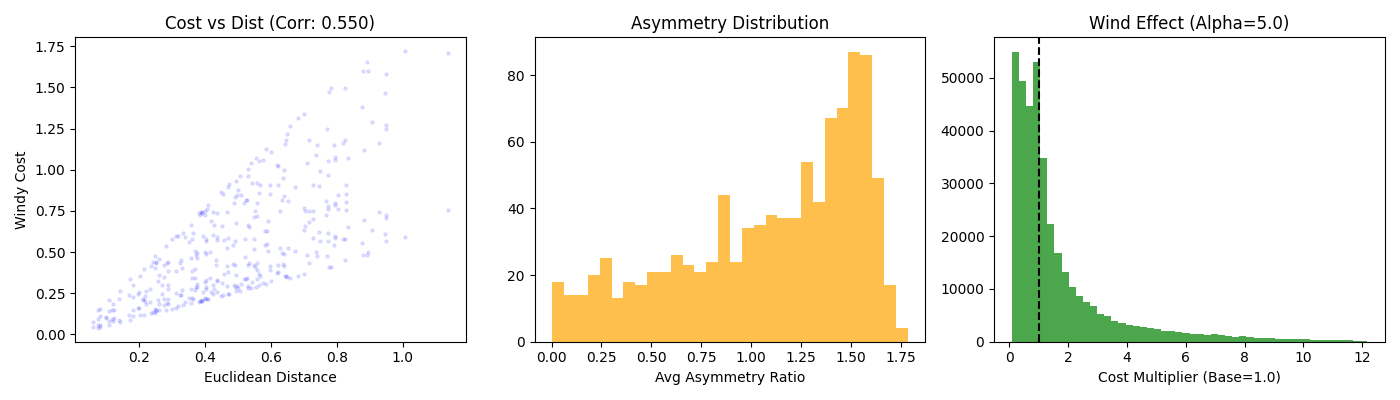
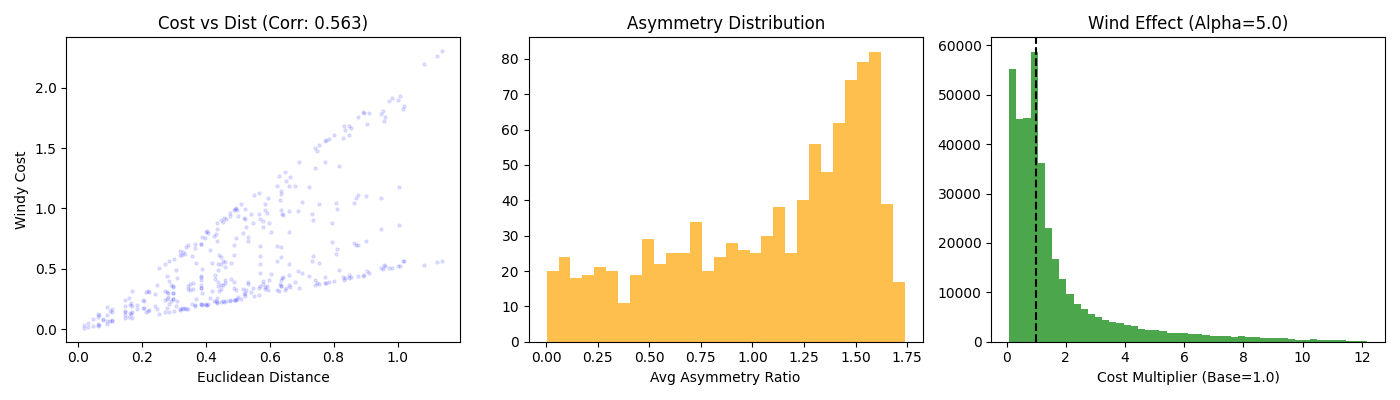
entropy_for_broader_exploration

diff --git a/train.py b/train.py
@@ -140,8 +140,13 @@ def train_epoch(model, optimizer, baseline, lr_scheduler, epoch, val_datasets, p
     set_decode_type(model, "sampling")
     scaler = amp.GradScaler(enabled=True)
 
+    # --- TRACKING ---
+    epoch_confidence_sum = 0
+    num_batches = 0
+    # ----------------
+
     for batch_id, batch in enumerate(tqdm(train_dataloader, disable=opts.no_progress_bar, ascii=True)):
-            train_batch(
+            batch_conf = train_batch(
                 model,
                 optimizer,
                 baseline,
@@ -155,15 +160,21 @@ def train_epoch(model, optimizer, baseline, lr_scheduler, epoch, val_datasets, p
                 start_time=start_time,
                 scaler=scaler       
             )
+
+            epoch_confidence_sum += batch_conf
+            num_batches += 1
             step += 1
     
     lr_scheduler.step(epoch)
 
+    # --- PRINT EPOCH STATS ---
+    avg_conf = epoch_confidence_sum / num_batches if num_batches > 0 else 0.0
     epoch_duration = time.time() - start_time
-    print('[{}] Finished epoch {}, took {} s'.format(
-    opts.run_name, epoch, time.strftime('%H:%M:%S', time.gmtime(time.time() - start_time))), 
-    flush=True
-)
+    print('[{}] Finished epoch {}, took {} s. Avg Confidence: {:.4f}'.format(
+        opts.run_name, epoch, time.strftime('%H:%M:%S', time.gmtime(epoch_duration)), avg_conf), 
+        flush=True
+    )
+    # -------------------------
 
     if (opts.checkpoint_epochs != 0 and epoch % opts.checkpoint_epochs == 0) or epoch == opts.n_epochs - 1:
         print('Saving model and state...')
@@ -228,17 +239,33 @@ def train_batch(model, optimizer, baseline, epoch,
     # Evaluate model, get costs and log probabilities
     with amp.autocast(enabled=True):
             # Evaluate model, get costs and log probabilities
-            cost, log_likelihood = model(x, graph, cost_matrix=cost_matrix)
-            
+            if opts.entropy_coeff > 0:
+                cost, log_likelihood, entropy = model(x, graph, cost_matrix=cost_matrix, return_entropy=True)
+            else:
+                cost, log_likelihood = model(x, graph, cost_matrix=cost_matrix, return_entropy=False)
+                entropy = None
+
+            # --- STATS: Calculate Model Confidence ---
+            # log_likelihood is the sum of log_probs for the tour.
+            # We approximate average probability per node.
+            # (Note: This is an approximation for logging purposes)
+            avg_log_prob = log_likelihood.mean() / x.size(1) 
+            model_confidence = torch.exp(avg_log_prob).item()
+            # -----------------------------------------
+
             # Evaluate baseline
             bl_val, bl_loss = baseline.eval(x, graph, cost) if bl_val is None else (bl_val, 0)
 
             # Calculate loss
             reinforce_loss = ((cost - bl_val) * log_likelihood).mean()
-            loss = reinforce_loss + bl_loss
             
-            # Normalize loss for accumulation
-            loss = loss / opts.accumulation_steps
+            # Add Entropy Regularization
+            if entropy is not None:
+                # We want to MAXIMIZE entropy -> MINIMIZE -entropy
+                # So we subtract (coeff * entropy) from the loss
+                reinforce_loss = reinforce_loss - opts.entropy_coeff * entropy.mean()
+
+            loss = reinforce_loss + bl_loss
 
     # Perform backward pass
     if scaler is not None:
@@ -268,7 +295,15 @@ def train_batch(model, optimizer, baseline, epoch,
             log_values(cost, grad_norms, epoch, batch_id, step, log_likelihood, 
                     reinforce_loss, bl_loss, tb_logger, opts, 
                     total_batches=total_batches, start_time=start_time)
+            # Print confidence to console for immediate check
+            print(f"Conf: {model_confidence:.4f}", end=" ")
+            
+            if not opts.no_tensorboard:
+                tb_logger.add_scalar('stats/confidence', model_confidence, step)
+                if entropy is not None:
+                    tb_logger.add_scalar('stats/entropy', entropy.mean().item(), step)
 
+    return model_confidence
         
 def train_epoch_sl(model, optimizer, lr_scheduler, epoch, train_dataset, val_datasets, problem, tb_logger, opts):
     print("\nStart train epoch {}, lr={} for run {}".format(epoch, optimizer.param_groups[0]['lr'], opts.run_name))

diff --git a/nets/attention_model.py b/nets/attention_model.py
@@ -7,10 +7,12 @@ from torch import nn
 import torch.nn.functional as F
 from torch.utils.checkpoint import checkpoint
 from torch.nn import DataParallel
+import torch.distributions as dist
 
 from utils.tensor_functions import compute_in_batches
 from utils.beam_search import CachedLookup
 from utils.functions import sample_many
+
 
 
 class AttentionModelFixed(NamedTuple):
@@ -195,7 +197,7 @@ class AttentionModel(nn.Module):
         if temp is not None:  # Do not change temperature if not provided
             self.temp = temp
 
-    def forward(self, nodes, graph, cost_matrix=None, supervised=False, targets=None, class_weights=None, return_pi=False):
+    def forward(self, nodes, graph, cost_matrix=None, supervised=False, targets=None, class_weights=None, return_pi=False, return_entropy=False):
         """
         Args:
             nodes: Input graph nodes (B x V x Features)
@@ -256,6 +258,24 @@ class AttentionModel(nn.Module):
             # returning it per action does not work well with DataParallel 
             # (since sequences can be of different lengths)
             ll = self._calc_log_likelihood(_log_p, pi, mask)
+
+            if return_entropy:
+                # Calculate Entropy safely using PyTorch's Categorical distribution
+                # _log_p shape: (Batch, Steps, Nodes)
+                
+                # 1. Get probabilities
+                probs = _log_p.exp()
+                
+                # 2. Use Categorical.entropy() which handles 0*log(0) and numerical stability correctly
+                # Categorical treats the last dimension as the class probabilities
+                entropy_per_step = dist.Categorical(probs=probs).entropy()
+                
+                # 3. Mean over steps (dim 1) to get average entropy per action
+                entropy = entropy_per_step.mean(dim=1)
+
+                if return_pi:
+                    return cost, ll, pi, entropy
+                return cost, ll, entropy
             
             if return_pi:
                 return cost, ll, pi

diff --git a/options.py b/options.py
@@ -81,6 +81,8 @@ def get_options(args=None):
                         help='Learning rate decay per epoch')
     parser.add_argument('--max_grad_norm', type=float, default=1.0, 
                         help='Maximum L2 norm for gradient clipping (0 to disable clipping)')
+    parser.add_argument('--entropy_coeff', type=float, default=0.0,
+                        help='Coefficient for entropy regularization (to encourage exploration)')
     parser.add_argument('--exp_beta', type=float, default=0.8,
                         help='Exponential moving average baseline decay')
     parser.add_argument('--baseline', default='rollout',
